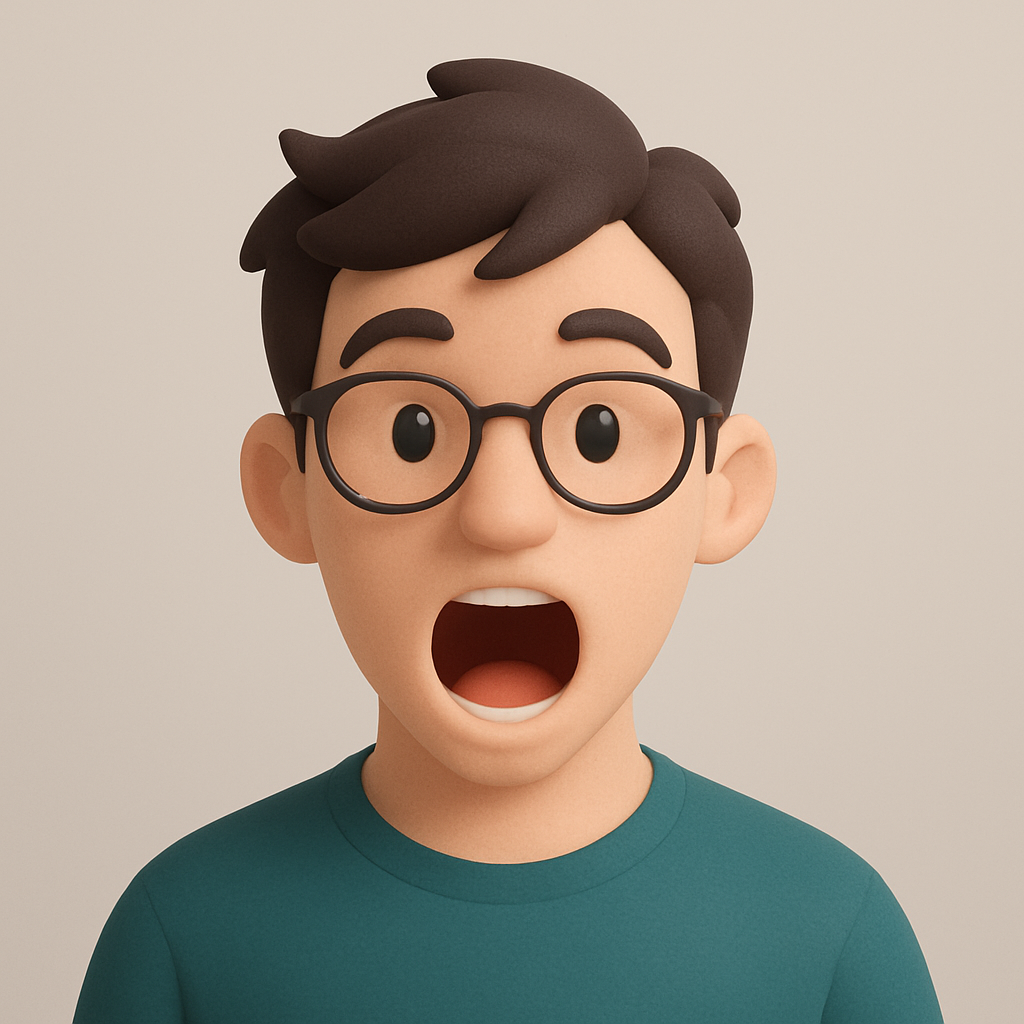
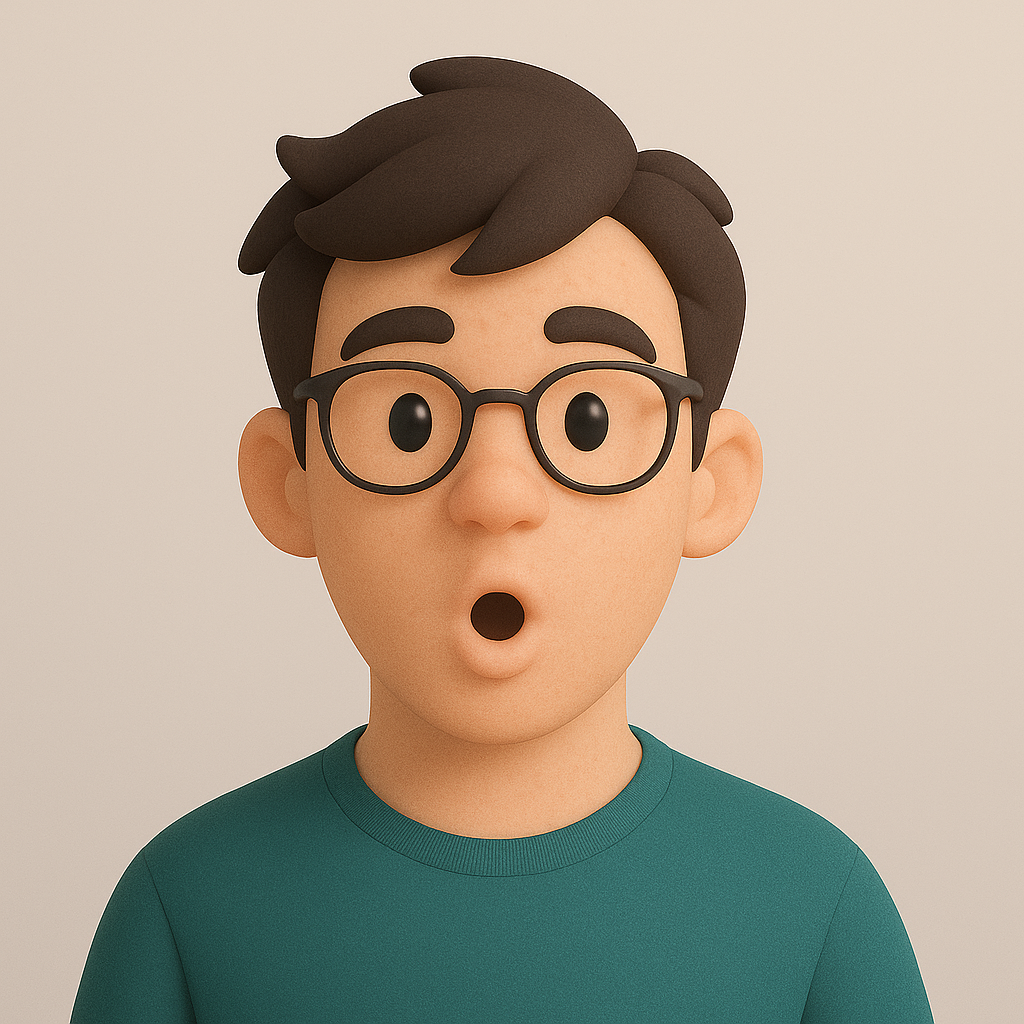
Added more lip sync images

diff --git a/main.js b/main.js
@@ -12,14 +12,25 @@ document.body.appendChild(renderer.domElement);
 const light = new THREE.AmbientLight(0xffffff); // soft white light
 scene.add(light);
 
+// Global state
+let isSpeaking = false;
+
 // Load and create avatar from images
 const textureLoader = new THREE.TextureLoader();
 const mouthTextures = {
+  // Base positions
   closed: textureLoader.load('image/closed.png'),
   small: textureLoader.load('image/small.png'),
   medium: textureLoader.load('image/medium.png'),
   round: textureLoader.load('image/round.png'),
-  smile: textureLoader.load('image/smile.png')
+  wide: textureLoader.load('image/wide.png'),
+
+  // Expressions
+  smile: textureLoader.load('image/smile.png'),
+  smile_open: textureLoader.load('image/smile_open.png'),
+  pressed: textureLoader.load('image/pressed.png'),
+  teeth: textureLoader.load('image/teeth.png'),
+  tongue: textureLoader.load('image/tongue.png')
 };
 
 const avatarGeometry = new THREE.PlaneGeometry(2, 2); // Adjust size as needed
@@ -52,22 +63,48 @@ async function speak(text) {
   utterance.pitch = 1.0;
   utterance.volume = 1.0;
 
-  // Map phonemes to mouth positions
-  const getPhonemeTexture = (text) => {
-    // Simple phoneme detection based on characters
+  // Enhanced phoneme detection and mapping
+  const getPhonemeTexture = (text, prevChar = '', nextChar = '') => {
     const char = text.toLowerCase();
+    const combo = (prevChar + char + nextChar).toLowerCase();
+    const isEndOfWord = nextChar === ' ' || nextChar === '' || '.!?,;'.includes(nextChar);
+    
+    // Common phoneme combinations with context
+    if (combo.includes('th')) return mouthTextures.tongue;
+    if (combo.includes('ch') || combo.includes('sh')) return mouthTextures.small;
+    if (combo.includes('ee') || combo.includes('ea')) return mouthTextures.teeth;
+    if (combo.includes('oo')) return mouthTextures.round;
+    if (combo.includes('oh')) return mouthTextures.round;
+    if (combo.includes('ah')) return mouthTextures.wide;
+    if (combo.includes('ay')) return mouthTextures.medium;
+    
+    // Emotion-aware phonemes
+    const isHappyWord = /\b(happy|love|nice|good)\b/i.test(combo);
+    
+    // Single phonemes with context
     if ('aeiou'.includes(char)) {
-      if ('ao'.includes(char)) return mouthTextures.round;  // Round mouth for O and A sounds
-      if ('i'.includes(char)) return mouthTextures.small;   // Small mouth for I sounds
-      if ('eu'.includes(char)) return mouthTextures.medium; // Medium mouth for E and U sounds
+      if (isHappyWord) return mouthTextures.smile_open;
+      if ('a'.includes(char)) return mouthTextures.wide;
+      if ('o'.includes(char)) return mouthTextures.round;
+      if ('i'.includes(char)) return mouthTextures.teeth;
+      if ('e'.includes(char)) return mouthTextures.small;
+      if ('u'.includes(char)) return mouthTextures.round;
     }
-    return mouthTextures.closed;  // Default to closed mouth for consonants
+    
+    // Consonant groups with natural movement
+    if ('pbm'.includes(char)) return mouthTextures.pressed;
+    if ('fv'.includes(char)) return mouthTextures.teeth;
+    if ('tdnl'.includes(char)) return mouthTextures.tongue;
+    if ('ws'.includes(char)) return mouthTextures.round;
+    if ('r'.includes(char)) return mouthTextures.medium;
+    
+    return mouthTextures.closed;
   };
 
   let animationTimer = null;
-  let isSpeaking = false;
+  let lastTexture = mouthTextures.closed;
 
-  // Track current character for lip sync
+  // Track current character for lip sync with natural timing
   let currentCharIndex = 0;
   const updateMouth = () => {
     if (!isSpeaking) {
@@ -76,10 +113,29 @@ async function speak(text) {
     }
 
     if (currentCharIndex < text.length) {
-      const texture = getPhonemeTexture(text[currentCharIndex]);
-      avatarMaterial.map = texture;
+      const prevChar = currentCharIndex > 0 ? text[currentCharIndex - 1] : '';
+      const nextChar = currentCharIndex < text.length - 1 ? text[currentCharIndex + 1] : '';
+      const texture = getPhonemeTexture(text[currentCharIndex], prevChar, nextChar);
+      
+      // Natural pauses for punctuation
+      const char = text[currentCharIndex];
+      let delay = 100; // Base timing
+      
+      if (',.:;!?'.includes(char)) {
+        avatarMaterial.map = mouthTextures.closed;
+        delay = char === '.' || char === '!' || char === '?' ? 300 : 200;
+      } else {
+        // Smooth transition between mouth positions
+        if (texture !== lastTexture) {
+          avatarMaterial.map = texture;
+          lastTexture = texture;
+        }
+      }
+
       currentCharIndex++;
-      animationTimer = setTimeout(updateMouth, 100); // Update every 100ms
+      // Vary the timing based on character type
+      const speedVariation = Math.random() * 50 - 25; // ±25ms variation for natural effect
+      animationTimer = setTimeout(updateMouth, delay + speedVariation);
     } else {
       avatarMaterial.map = mouthTextures.closed;
     }
@@ -89,6 +145,7 @@ async function speak(text) {
     console.log('Speech started');
     isSpeaking = true;
     currentCharIndex = 0;
+    lastTexture = mouthTextures.closed;
     updateMouth();
   };
 
@@ -99,18 +156,32 @@ async function speak(text) {
       clearTimeout(animationTimer);
       animationTimer = null;
     }
-    avatarMaterial.map = mouthTextures.closed;
+    // Gradual close
+    avatarMaterial.map = mouthTextures.small;
+    setTimeout(() => {
+      avatarMaterial.map = mouthTextures.closed;
+    }, 100);
   };
 
   utterance.onboundary = (event) => {
     console.log('Speech boundary:', event.name, event);
     if (event.name === 'word') {
-      // Smile occasionally at the end of words
-      if (Math.random() < 0.2) { // 20% chance to smile
+      // Natural expressions at word boundaries
+      const wordEnd = text.substr(event.charIndex, event.charLength);
+      
+      // Smile more often at the end of sentences or happy words
+      const isEndOfSentence = '.!?'.includes(wordEnd[wordEnd.length - 1]);
+      const isHappyWord = /\b(happy|great|good|nice|love|wonderful)\b/i.test(wordEnd);
+      
+      if (isEndOfSentence || isHappyWord || Math.random() < 0.1) { // 10% random chance
         avatarMaterial.map = mouthTextures.smile;
         setTimeout(() => {
-          avatarMaterial.map = mouthTextures.closed;
-        }, 200);
+          if (isSpeaking) {
+            avatarMaterial.map = lastTexture;
+          } else {
+            avatarMaterial.map = mouthTextures.closed;
+          }
+        }, isEndOfSentence ? 400 : 200);
       }
     }
   };
@@ -122,6 +193,50 @@ async function speak(text) {
   speechSynthesis.cancel(); // Cancel any ongoing speech
   speechSynthesis.speak(utterance);
 }
+
+// Add subtle head movement
+function addNaturalMovement() {
+  const baseRotation = avatar.rotation.z;
+  const basePosition = avatar.position.y;
+  
+  // Subtle random movement
+  setInterval(() => {
+    if (!isSpeaking) return;
+    
+    const rotationVariation = (Math.random() - 0.5) * 0.05;
+    const positionVariation = (Math.random() - 0.5) * 0.02;
+    
+    gsap.to(avatar.rotation, {
+      z: baseRotation + rotationVariation,
+      duration: 2,
+      ease: "power1.inOut"
+    });
+    
+    gsap.to(avatar.position, {
+      y: basePosition + positionVariation,
+      duration: 2,
+      ease: "power1.inOut"
+    });
+  }, 2000);
+
+  // Random blinking
+  const blink = () => {
+    if (Math.random() < 0.1) { // 10% chance to blink when checked
+      const currentTexture = avatarMaterial.map;
+      avatarMaterial.map = mouthTextures.closed;
+      setTimeout(() => {
+        if (isSpeaking) {
+          avatarMaterial.map = currentTexture;
+        }
+      }, 150);
+    }
+  };
+
+  setInterval(blink, 1000); // Check for blink every second
+}
+
+// Start natural movements
+addNaturalMovement();
 
 // Example: get LLM response and speak
 async function startConversation() {

diff --git a/index.html b/index.html
@@ -23,6 +23,7 @@
 </head>
 <body>
   <button id="startButton">Start Conversation</button>
+  <script src="https://cdnjs.cloudflare.com/ajax/libs/gsap/3.12.2/gsap.min.js"></script>
   <script type="module" src="main.js"></script>
 </body>
 </html>
